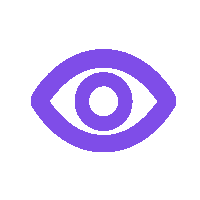
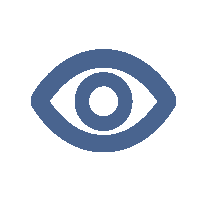
color changes and portfolio fixes

Changed region(s): [[0.15, 0.24, 0.9, 0.78]]

diff --git a/index.css b/index.css
@@ -1,5 +1,5 @@
 body.first {
-  background-color: #391f80;
+  background-color: #367ff5;
   height: 101vh;
 }
 
@@ -14,7 +14,7 @@ body.first {
 }
 
 a {
-  color: white;
+  color: #367ff5;
   text-decoration: none;
 }
 
@@ -49,7 +49,7 @@ header.first {
 }
 
 .gold-divider {
-  background-color: #ffe83d;
+  background-color: #7dabf5;
   height: 20px;
 }
 
@@ -57,8 +57,8 @@ main.first {display: none}
 h1 {
   font-family: 'Playfair Display', serif;
   text-align: center;
-  color: #ffe83d;
-  background-color: #391f80;
+  color: white;
+  background-color: #7dabf5;
 }
 
 h1.first { 
@@ -77,7 +77,7 @@ h1.first {
   display: flex;
   flex-direction: column;
   flex: 1;
-  color: white;
+  color: #3b82f5;
 }
 
 h2.first {
@@ -85,16 +85,17 @@ h2.first {
   font-family: 'Playfair Display', serif;
   font-weight: 600;
   line-height: 1.5em;
-  background-color: #391f80;
+  background-color: #e6eeff;
   height: 20vh;
   display: flex;
   align-items: center;
   flex-direction: column;
   justify-content: center;
+  padding-bottom: 20px;
 }
 
 nav.first {
-  background-color: #7F4DE8;
+  background-color: white;
   flex: 1;
   display: flex;
   align-items: center;
@@ -123,7 +124,7 @@ second page
 ---------------------*/
 
 body.second {
-  background-color: #391f80;
+  background-color: #7dabf5;
 }
 
 .fullpage.second {
@@ -131,7 +132,7 @@ body.second {
   flex-direction: column;
   justify-content: center;
   text-align: center;
-  background-color: #ffe83d;
+  background-color: #7dabf5;
 }
 
 header.second {
@@ -154,8 +155,8 @@ h1.second {
   font-family: 'Playfair Display', serif;
   font-size: 40px;
   font-weight: bolder;
-  color: #ffe83d;
-  background-color: #391f80;
+  color: white;
+  background-color: #49648f;
   letter-spacing: 20px;
   padding: 2px 0px;
 }
@@ -164,7 +165,7 @@ nav.second ul {
   display: flex;
   flex-direction: row;
   justify-content: space-evenly;
-  background-color: #7F4DE8;
+  background-color: #e6eeff;
   color: white;
   font-family: 'Montserrat', sans-serif;
   padding: 4px;
@@ -182,21 +183,21 @@ main.second {
 
 h3.active, h3.inactive {
   color: white;
-  background-color: #7F4DE8;
+  background-color: #7dabf5;
   font-size: 50px;
   height: 55px;
   font-family: 'Playfair Display', serif;
+  padding-bottom: 8px;
 }
 
 .information {
   background-color: white;
-  padding-bottom: 10px;
-  border-bottom: 12px solid #ffe83d;
+  padding-bottom: 20px;
 }
 
 
 p.second {
-  color: #391f80;
+  color: #49648f;
   font-family: 'Montserrat', sans-serif;
   line-height: 1.5em;
   padding-top: 10px;
@@ -233,7 +234,7 @@ p.second {
 }
 
 .project-name {
-  color: #391f80;
+  color: #49648f;
   font-family: 'Montserrat', sans-serif;
   font-weight: 500;
   font-size: 30px;
@@ -245,12 +246,14 @@ p.second {
   color: white;
   font-weight: 100;
   font-size: 16px;
-  color: #391f80;
+  color: #49648f;
 }
 
 .project-image {
   width: 80%;
   margin: 5px;
+  min-width: 200px;
+  max-width: 300px;
 }
 
 .project-info {
@@ -263,7 +266,7 @@ p.second {
 #final-links {
   position: fixed;
   bottom: 0;
-  background-color: #ffe83d;
+  background-color: #49648f;
   padding: 5px;
   color: #391f80;
   width: 100%;
@@ -311,15 +314,15 @@ h6 {
 
 
 /* -------------------------------
-desktop version
+tablet version
 -----------------------------*/
 
 
-@media screen and (min-width: 482px) {
+@media screen and (min-width: 768px) {
 
   html {
     background: no-repeat center center fixed;
-    background-image: radial-gradient(#ffe83d, #391f80);
+    background-image: radial-gradient(#6387c2,#49648f);
     background-size: cover;
   }
 
@@ -328,8 +331,9 @@ desktop version
   }
 
   .fullpage.first {
-    width: 50%;;
+    width: 80%;
     margin: 0 auto;
+    position: relative;
   }
 
   header.first {
@@ -338,24 +342,31 @@ desktop version
   }
 
   h1.first {
-    padding: 80px 0px 0px 0px;
+    padding: 40px 0px 40px 0px;
   }
 
   .under-title.first {
-    background-color: #391f80;
+    background-color: #e6eeff;
     width: 100%;
   }
 
   h2.first {
-    background-color: #391f80;
+    background-color: #e6eeff;
   }
 
   nav.first {
     margin: 30px 0px 70px 0px;
-    background-color: #7F4DE8;
-    width: 50%;
+    background-color: white;
+    width: 100%;
     margin: 0 auto;
     margin-bottom: 30px;
+  }
+
+  nav a:hover {
+    color: #49648f;
+    font-weight: bold;
+    text-decoration: dotted underline;
+    transition: .3s all;
   }
 
   ul.first {
@@ -367,8 +378,8 @@ desktop version
     flex: 0;
     bottom: 0;
     z-index: 1;
-    width: 50%;
-    margin: 0 auto;
+    width: 100%;
+    position: absolute;
   }
 
   main.first {
@@ -384,34 +395,36 @@ second desktop page
   }
 
   .fullpage.second {
-    width: 50%;
+    width: 80%;
     margin: 0 auto;
     display: flex;
     align-content: center;
+    justify-content: center;
+    align-items: center;
     background: none;
   }
   header.second {
-    width: 50%;
+    width: 80%;
     flex: 0;
   }
 
   .gold-divider.second {
-    width: 50%;
+    width: 80%;
   
   }
 
   main.second {
     flex: 0;
-    width: 50%;
+    width: 80%;
     top: 20%;
     background: none;
   }
 
   .information {
-    border-top: 6px solid #ffe83d;
-    border-bottom: 6px solid #ffe83d;
-    border-left: 1px solid #ffe83d;
-    border-right: 1px solid #ffe83d;
+    border-top: 6px solid #7dabf5;
+    border-bottom: 6px solid #7dabf5;
+    border-left: 1px solid #7dabf5;
+    border-right: 1px solid #7dabf5;
   }
 
   .information:not(:first-child) {
@@ -460,8 +473,37 @@ second desktop page
   }
 
   #final-links {
-    width: 50%;
+    width: 80%;
     padding: 5px 0px;
     margin: 0;
+  }
+}
+
+/************************
+desktop version
+************************/
+
+@media screen and (min-width: 1024px) {
+  .fullpage.first {
+    width: 50%;
+  }
+  .fullpage.second {
+    width: 50%;
+  }
+  header.second {
+    width: 50%;
+  }
+
+  .gold-divider.second {
+    width: 50%;
+  
+  }
+
+  main.second {
+    width: 50%;
+  }
+
+  #final-links {
+    width: 50%;
   }
 }

diff --git a/index.js b/index.js
@@ -26,8 +26,8 @@ function addMain(add) {
                     <h4 class="project-name">Your Bookmarks</h4>
                     <h5 class="project-description">Keep tabs of your favorite websites</h5>
                     <ul class="view-code">
-                        <li class="github-code"><a href="https://github.com/thinkful-ei-gecko/leon-dail-bookmarks-app"><img src="images/github-purple.png" alt="View on Github" /></a></li>
-                        <li class="deploy-code"><a href="https://thinkful-ei-gecko.github.io/leon-dail-bookmarks-app/"><img src="images/eye2.png" alt="View Deployment" /></a></li>
+                        <li class="github-code"><a target="_blank" href="https://github.com/thinkful-ei-gecko/leon-dail-bookmarks-app"><img src="images/github-purple.png" alt="View on Github" /></a></li>
+                        <li class="deploy-code"><a target="_blank" href="https://thinkful-ei-gecko.github.io/leon-dail-bookmarks-app/"><img src="images/eye2.png" alt="View Deployment" /></a></li>
                     </ul>
                     <p>This web application allows a user to keep track of their favorite websites. The user can add, delete, and edit the bookmarked tabs, as well as display them by ranking.</p>
                     <ul class="skills">
@@ -38,7 +38,7 @@ function addMain(add) {
                         <li class="skill-api"><img src="images/api.png" alt="API" /></li>
                     </ul>
                 </div>
-                <a href="https://thinkful-ei-gecko.github.io/leon-dail-bookmarks-app/" class="project-image-link"><img src="images/bookmark-app.png" alt="Your Bookmarks Screenshot" class="project-image" /></a>
+                <a target="_blank" href="https://thinkful-ei-gecko.github.io/leon-dail-bookmarks-app/" class="project-image-link"><img src="images/bookmark-app.png" alt="Your Bookmarks Screenshot" class="project-image" /></a>
             </div>
 
             <div class="divider"></div>
@@ -48,8 +48,8 @@ function addMain(add) {
                     <h4 class="project-name">Quiz Application</h4>
                     <h5 class="project-description">Test your knowledge about the quizmaker's choice!</h5>
                     <ul class="view-code">
-                        <li class="github-code"><a href="https://github.com/thinkful-ei-gecko/JamesJ-Leon-quiz-app"><img src="images/github-purple.png" alt="View on Github" /></a></li>
-                        <li class="deploy-code"><a href="https://thinkful-ei-gecko.github.io/JamesJ-Leon-quiz-app/"><img src="images/eye2.png" alt="View Deployment" /></a></li>
+                        <li class="github-code"><a target="_blank" href="https://github.com/thinkful-ei-gecko/JamesJ-Leon-quiz-app"><img src="images/github-purple.png" alt="View on Github" /></a></li>
+                        <li class="deploy-code"><a target="_blank" href="https://thinkful-ei-gecko.github.io/JamesJ-Leon-quiz-app/"><img src="images/eye2.png" alt="View Deployment" /></a></li>
                     </ul>
                     <p>Although originally designed as a small and fun Game of Thrones quiz application, the questions and styles can be ported to any topic by editing the database. This application is fully robust, and the contents can be easily changed for a variety of quizzes.</p>
                     <ul class="skills">
@@ -59,7 +59,7 @@ function addMain(add) {
                         <li class="skill-jQuery"><img src="images/jquery.png" alt="jQuery" /></li>
                     </ul>
                 </div>
-                <a href="https://thinkful-ei-gecko.github.io/JamesJ-Leon-quiz-app/" class="project-image-link"><img src="images/got-app.png" alt="Quiz Application Screenshot" class="project-image" /></a>
+                <a target="_blank" href="https://thinkful-ei-gecko.github.io/JamesJ-Leon-quiz-app/" class="project-image-link"><img src="images/got-app.png" alt="Quiz Application Screenshot" class="project-image" /></a>
             </div>
         </article>
         <article class="information">
@@ -68,17 +68,17 @@ function addMain(add) {
     </article>
     <footer id="final-links">
         <ul id="contact-links">
-            <li id="github-link"><a href="https://github.com/ldail"><img src="images/github.png" alt="GitHub" /></a></li>
-            <li id="linkedin-link"><a href="#"><img src="images/linkedin.png" alt="LinkedIn" /></a></li>
-            <li id="email-link"><a href="mailto:leondailofficial@gmail.com"><img src="images/email.png" alt="Email" /></a></li>
+            <li id="github-link"><a target="_blank" href="https://github.com/ldail"><img src="images/github.png" alt="GitHub" /></a></li>
+            <li id="linkedin-link"><a target="_blank" href="#"><img src="images/linkedin.png" alt="LinkedIn" /></a></li>
+            <li id="email-link"><a target="_blank" href="mailto:leondailofficial@gmail.com"><img src="images/email.png" alt="Email" /></a></li>
         </ul>
-    <img src="images/easteregg.png" id="easter-egg" alt="easter egg" />
+    <!-- <img src="images/easteregg.png" id="easter-egg" alt="easter egg" /> -->
     </footer>
-    <div id="easter-div">
+    <!-- <div id="easter-div">
     <h5>You found the secret easter egg!</h5>
     <h6>Click below to activate!</h6>
     <img src="images/easteregg.png" id="second-easter-egg" alt="easter egg" />
-    </div>`
+    </div> -->`
     );
     $('main').fadeIn('slow');
     $('.inactive').text('projects');
